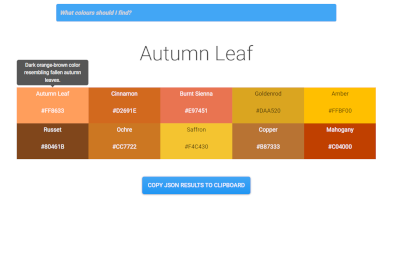
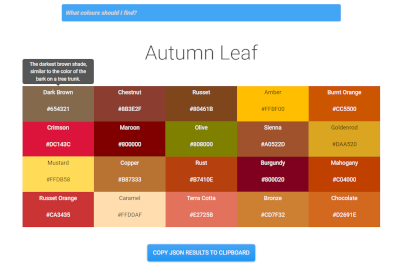
chore(): increase returned colours to twenty

diff --git a/src/app.tsx b/src/app.tsx
@@ -44,7 +44,7 @@ function App(): React.JSX.Element {
 			messages: [
 				{
 					role: 'user',
-					content: `Return only an array of a complemetary palette of ten colours as hex values in json format based ${inputData.current.value}, including colour, hex, contrastingColourHex 
+					content: `Return only an array of a complemetary palette of twenty colours as hex values in json format based ${inputData.current.value}, including colour, hex, contrastingColourHex 
 			and description as keys in an object with colours as a key arranged in order of darkest colours first. Dont include any other text in your response.`,
 				},
 			],

diff --git a/src/components/intro-box.tsx b/src/components/intro-box.tsx
@@ -6,7 +6,7 @@ function IntroBox(): React.JSX.Element {
 		<Stack className="IntroBox d-flex flex-column justify-content-center align-items-center vh-100 pt-4 bg-opacity-25">
 			<h1 className="display-4 text-info">AI Colour Picker Tool</h1>
 			<div>
-				Enter a word or sentence in the box above to get a range of six colours
+				Enter a word or sentence in the box above to get a range of 20 colours
 				inspired by this phrase.
 				<br />
 				For example try &apos;Autumn Leaf&apos;.

diff --git a/README.md b/README.md
@@ -4,7 +4,7 @@
 
 A Open AI powered colour picking utility built using Vite, React and TypeScript.
 
-The App constructs a suitable prompt using the users input that then returns a json object with the requested colour information.
+The App constructs a suitable prompt using the users input that then returns a JSON object with the requested colour information.
 
 Results can be copied to local clipboard as JSON data and pasted into a code editor for use.
 
